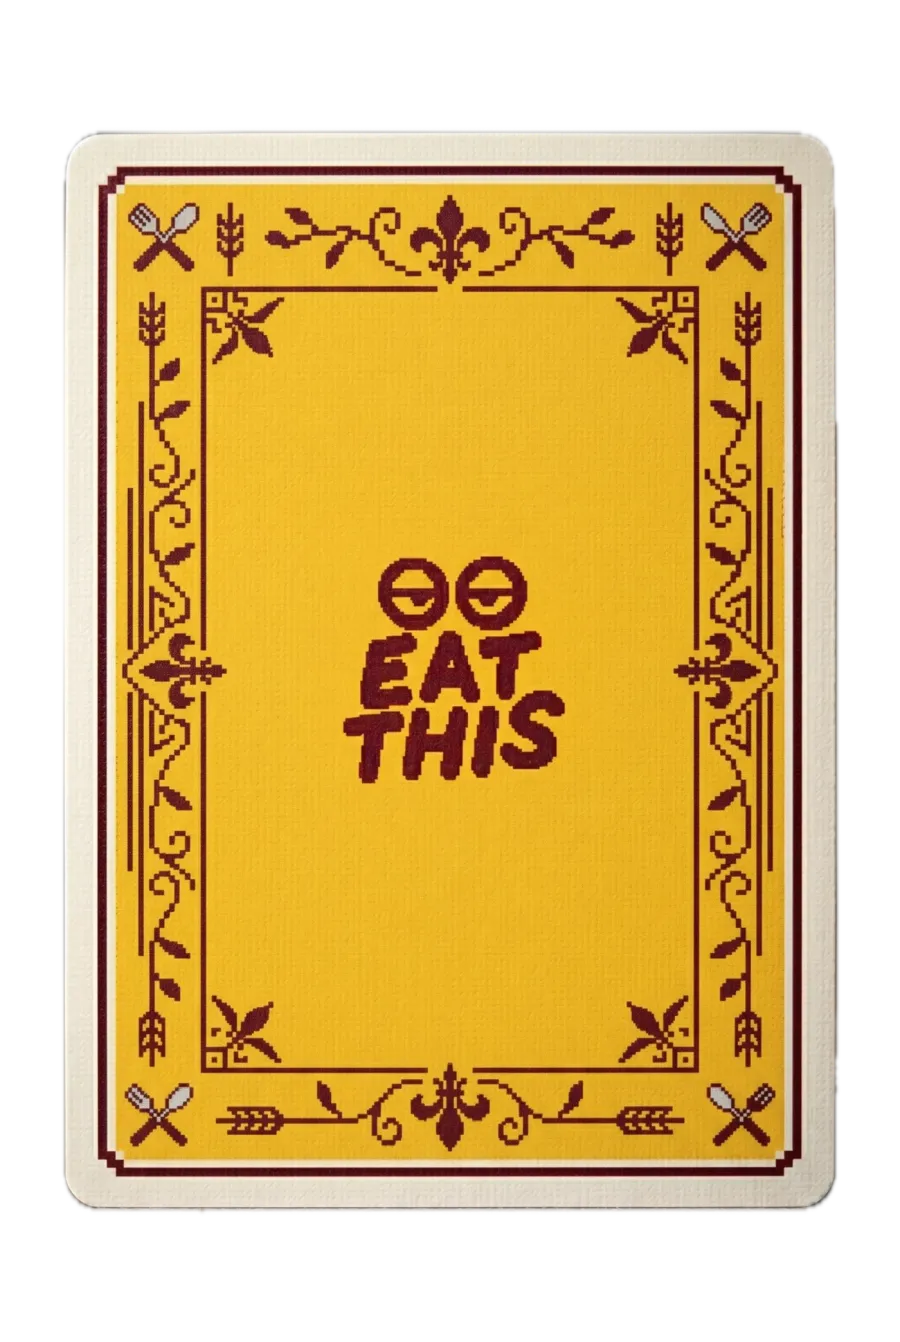
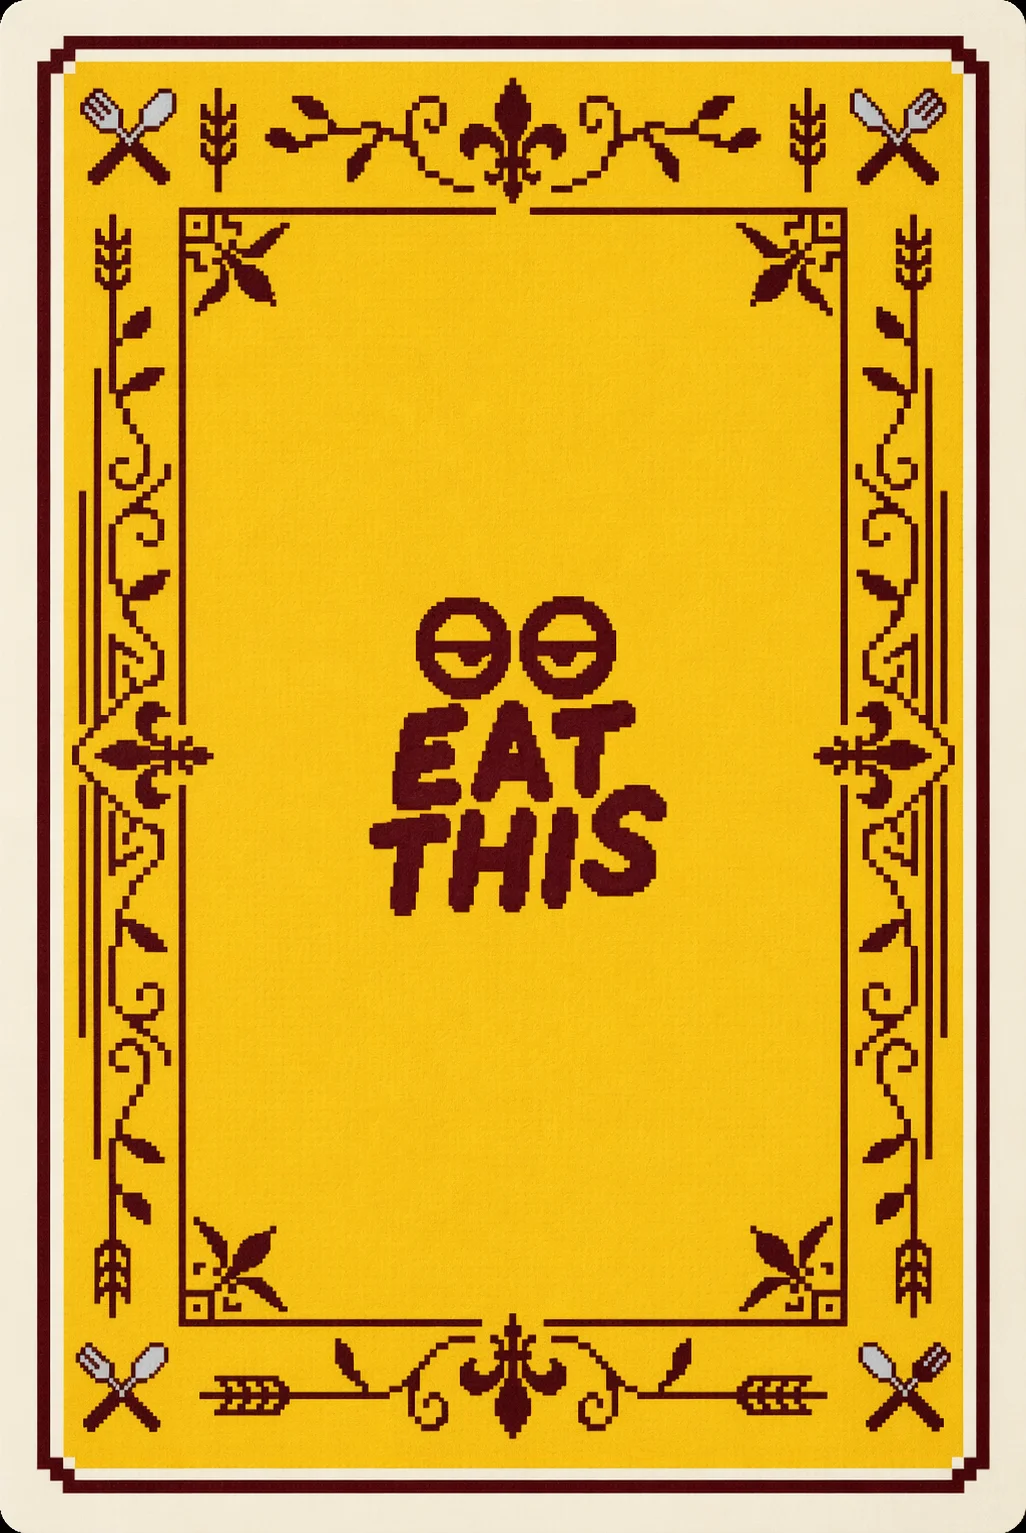
fix(landing): update back card image, move ticker, fix Must Eat hyphen sweep
- Replace card-back.webp with correct pixel-art EAT THIS design (153KB WebP from back_card.png)
- Move Ticker to directly below HeroIntro on mobile; hide on ≥1024px
- Remove dark #2a2a2a background from .memBack — cards now freigestellt
- Fix MapSection using stale card_back.png → card-back.webp
- Strip Must-Eat / Must-Eats hyphens across translations.ts, queries.ts, map.module.css, style.css

diff --git a/nextjs/lib/i18n/translations.ts b/nextjs/lib/i18n/translations.ts
@@ -19,7 +19,7 @@ const en = {
   },
   newsletter: {
     eyebrow: "Stay in the loop",
-    title: "New Must-Eats, every week.",
+    title: "New Must Eats, every week.",
     sub: "Get the latest Berlin spots delivered to your inbox \u2014 plus a free bonus card pack.",
     placeholder: "your@email.com",
     cta: "Subscribe",
@@ -29,21 +29,21 @@ const en = {
   start: {
     section1Label: "Eat This",
     section1Title: "Probably the BEST food guide you know.",
-    section1Body: "The most curated selection of Must-Eats in Berlin. Discover the city via our interactive map and start building your deck.",
+    section1Body: "The most curated selection of Must Eats in Berlin. Discover the city via our interactive map and start building your deck.",
     section2Label: "The Concept",
     section2Title: "Just order this.",
-    section2Body1: "We hunt down the outstanding dishes. Every Must-Eat Card in your collection represents a recommendation we stand behind\u2014from single iconic plates to entire \u201cMenu Approved\u201d spots.",
-    section2Body2: "Register to unlock your first Booster Pack including 10 free Must-Eat Cards. Collect them all, explore the map, and master the Berlin food scene.",
+    section2Body1: "We hunt down the outstanding dishes. Every Must Eat Card in your collection represents a recommendation we stand behind\u2014from single iconic plates to entire \u201cMenu Approved\u201d spots.",
+    section2Body2: "Register to unlock your first Booster Pack including 10 free Must Eat Cards. Collect them all, explore the map, and master the Berlin food scene.",
     section2Body3: "",
     section3Label: "Account",
     section3Title: "Be the first to know.",
-    section3Body: "Create an account and get 10 free Must-Eat Cards to start your collection.",
+    section3Body: "Create an account and get 10 free Must Eat Cards to start your collection.",
     section3Cta: "Create account",
     section4Label: "Our Standards",
     philo1Title: "Pure Curation.",
     philo1Text: "One rule: only the best food. We visit, we taste, we select.",
     philo2Title: "The Deck.",
-    philo2Text: "Hundreds of Must-Eats to discover. Build your personal archive of the city\u2019s finest restaurants and caf\u00e9s.",
+    philo2Text: "Hundreds of Must Eats to discover. Build your personal archive of the city\u2019s finest restaurants and caf\u00e9s.",
     philo3Title: "Explore the Map.",
     philo3Text: "Discover the city dish by dish.",
     section5Label: "How we choose",
@@ -52,14 +52,14 @@ const en = {
     section5Body2: "",
     section6Label: "What\u2019s next",
     section6Title: "Berlin is just the first deck.",
-    section6Body1: "We are expanding city by city. More decks, more Must-Eats, and exclusive Merch coming soon.",
+    section6Body1: "We are expanding city by city. More decks, more Must Eats, and exclusive Merch coming soon.",
     section6Cities: "Istanbul, Amsterdam, Paris \u2014 we\u2019re on it.",
     section6Body2: "Same approach, different cities.",
   },
   about: {
     title: "Just order this.",
     // Safe: hardcoded HTML from this constant — not user input
-    body: "<h3>The Concept</h3><p>Eat This is a curated food guide for Berlin. We don\u2019t just list places; we find the outstanding dishes you actually need to try.</p><h3>Must-Eat Cards</h3><p>Every recommendation is a card. Collect them, build your deck, and track your culinary journey through the city. New users receive a 10-card Booster Pack upon registration.</p><h3>Pure Curation</h3><p>We visit every spot, talk to the chefs, and only select what truly stands out. No paid content, no noise\u2014just the best food.</p><h3>What\u2019s Next</h3><p>Berlin is our starting point. Istanbul, Amsterdam, and Paris are coming soon. Same rules, different cities.</p>",
+    body: "<h3>The Concept</h3><p>Eat This is a curated food guide for Berlin. We don\u2019t just list places; we find the outstanding dishes you actually need to try.</p><h3>Must Eat Cards</h3><p>Every recommendation is a card. Collect them, build your deck, and track your culinary journey through the city. New users receive a 10-card Booster Pack upon registration.</p><h3>Pure Curation</h3><p>We visit every spot, talk to the chefs, and only select what truly stands out. No paid content, no noise\u2014just the best food.</p><h3>What\u2019s Next</h3><p>Berlin is our starting point. Istanbul, Amsterdam, and Paris are coming soon. Same rules, different cities.</p>",
   },
   musts: {
     sectionLabel: "Berlin",
@@ -100,14 +100,14 @@ const en = {
     reserve: "Reserve",
     allBezirke: "All districts",
     restaurantsTab: "Restaurants",
-    mustEatsTab: "Must-Eats",
+    mustEatsTab: "Must Eats",
     restaurantOne: "restaurant",
     restaurantMany: "restaurants",
     nearYou: "near you",
     nothingInArea: "No restaurants found near you.",
     openingHours: "Opening Hours",
     insiderTip: "Insider Tip",
-    mustEatsCount: "Must-Eats",
+    mustEatsCount: "Must Eats",
     googleMaps: "Google Maps",
     website: "Website",
     share: "Share",
@@ -117,14 +117,14 @@ const en = {
     loadingTitle: "Shuffling your cards",
     loadingSub: "Berlin loading \u00b7 Press Start",
     tooFarToReveal: "Too far to reveal",
-    revealHere: "You\u2019re here! Tap to reveal this Must-Eat.",
+    revealHere: "You\u2019re here! Tap to reveal this Must Eat.",
     awayToUnlock: "away \u2014 come within 200 m to unlock.",
-    enableLocation: "Enable location to unlock Must-Eats on-site.",
-    mustEatsUnlocked: "Must-Eats unlocked",
-    noMustEatsMatch: "No Must-Eats match your filters.",
-    hiddenMustEat: "Hidden Must-Eat",
+    enableLocation: "Enable location to unlock Must Eats on-site.",
+    mustEatsUnlocked: "Must Eats unlocked",
+    noMustEatsMatch: "No Must Eats match your filters.",
+    hiddenMustEat: "Hidden Must Eat",
     viewRestaurant: "View restaurant",
-    mustEatLabel: "Must-Eat",
+    mustEatLabel: "Must Eat",
     unitsMin: "min",
     unitsH: "h",
   },
@@ -170,7 +170,7 @@ const en = {
     about: {
       title: "Just order this.",
       // Safe: hardcoded HTML from this constant — not user input
-      body: "<h3>Corrections Policy</h3><p>If we publish something wrong, we want to know. Email <a href=\"mailto:hello@eatthisdot.com\">hello@eatthisdot.com</a> with the article and the correction. We aim to fix factual errors within 24 hours and add a visible note at the bottom of the article explaining what was changed and when. Small typos we silently fix; anything that changes the meaning of a piece gets a visible correction.</p><h3>Fact Checking and Sources</h3><p>Everything we write about a restaurant is based on at least one personal visit. Opening hours, addresses and prices are verified with the restaurant before publication and periodically re-checked. When we quote someone, we quote them on the record.</p><h3>Funding and Transparency</h3><p>EAT THIS is currently self-funded and free for readers. If and when we introduce paid partnerships, subscriptions, or sponsored content, they will always be labelled clearly and kept separate from our editorial recommendations. We are not owned by, invested in, or paid by any restaurant, restaurant group or food brand. Full company and contact details are in our Impressum.</p><h3>Editorial Contact</h3><p>Editorial questions, tips, corrections: <a href=\"mailto:hello@eatthisdot.com\">hello@eatthisdot.com</a></p><h3>The Concept</h3><p>Eat This is a curated food guide for Berlin. We don\u2019t just list places; we find the outstanding dishes you actually need to try.</p><h3>Must-Eat Cards</h3><p>Every recommendation is a card. Collect them, build your deck, and track your culinary journey through the city. New users receive a 10-card Booster Pack upon registration.</p><h3>Pure Curation</h3><p>We visit every spot, talk to the chefs, and only select what truly stands out. No paid content, no noise\u2014just the best food.</p><h3>What\u2019s Next</h3><p>Berlin is our starting point. Istanbul, Amsterdam, and Paris are coming soon. Same rules, different cities.</p>",
+      body: "<h3>Corrections Policy</h3><p>If we publish something wrong, we want to know. Email <a href=\"mailto:hello@eatthisdot.com\">hello@eatthisdot.com</a> with the article and the correction. We aim to fix factual errors within 24 hours and add a visible note at the bottom of the article explaining what was changed and when. Small typos we silently fix; anything that changes the meaning of a piece gets a visible correction.</p><h3>Fact Checking and Sources</h3><p>Everything we write about a restaurant is based on at least one personal visit. Opening hours, addresses and prices are verified with the restaurant before publication and periodically re-checked. When we quote someone, we quote them on the record.</p><h3>Funding and Transparency</h3><p>EAT THIS is currently self-funded and free for readers. If and when we introduce paid partnerships, subscriptions, or sponsored content, they will always be labelled clearly and kept separate from our editorial recommendations. We are not owned by, invested in, or paid by any restaurant, restaurant group or food brand. Full company and contact details are in our Impressum.</p><h3>Editorial Contact</h3><p>Editorial questions, tips, corrections: <a href=\"mailto:hello@eatthisdot.com\">hello@eatthisdot.com</a></p><h3>The Concept</h3><p>Eat This is a curated food guide for Berlin. We don\u2019t just list places; we find the outstanding dishes you actually need to try.</p><h3>Must Eat Cards</h3><p>Every recommendation is a card. Collect them, build your deck, and track your culinary journey through the city. New users receive a 10-card Booster Pack upon registration.</p><h3>Pure Curation</h3><p>We visit every spot, talk to the chefs, and only select what truly stands out. No paid content, no noise\u2014just the best food.</p><h3>What\u2019s Next</h3><p>Berlin is our starting point. Istanbul, Amsterdam, and Paris are coming soon. Same rules, different cities.</p>",
     },
     contact: {
       title: "Get in touch",
@@ -204,7 +204,7 @@ const en = {
     },
     login: {
       titleRegister: "Create account",
-      subtitleRegister: "Get your first Starter Pack \u2014 10 Must-Eat Cards, free.",
+      subtitleRegister: "Get your first Starter Pack \u2014 10 Must Eat Cards, free.",
       titleLogin: "Welcome back",
       subtitleLogin: "Sign in to your account.",
       namePlaceholder: "Name",
@@ -331,7 +331,7 @@ const deOverrides: DeepPartial<TranslationsShape> = {
   },
   newsletter: {
     eyebrow: "Immer up to date",
-    title: "Neue Must-Eats, jede Woche.",
+    title: "Neue Must Eats, jede Woche.",
     sub: "Die besten neuen Spots aus Berlin \u2014 direkt in dein Postfach.",
     placeholder: "deine@email.com",
     cta: "Anmelden",
@@ -340,20 +340,20 @@ const deOverrides: DeepPartial<TranslationsShape> = {
   },
   start: {
     section1Title: "Wahrscheinlich der beste Food-Guide, den du kennst.",
-    section1Body: "Die kuratierteste Auswahl an Must-Eats in Berlin. Entdecke die Stadt auf unserer interaktiven Karte und starte dein Deck.",
+    section1Body: "Die kuratierteste Auswahl an Must Eats in Berlin. Entdecke die Stadt auf unserer interaktiven Karte und starte dein Deck.",
     section2Label: "Das Konzept",
     section2Title: "Bestell genau das.",
-    section2Body1: "Wir sp\u00fcren herausragende Gerichte auf. Jede Must-Eat-Karte in deiner Sammlung steht f\u00fcr eine Empfehlung, hinter der wir stehen \u2013 von einzelnen ikonischen Tellern bis hin zu ganzen \u201eMenu Approved\u201c-Spots.",
-    section2Body2: "Registriere dich, um dein erstes Booster Pack mit 10 kostenlosen Must-Eat-Karten freizuschalten. Sammle sie alle, erkunde die Karte und meistere die Berliner Food-Szene.",
+    section2Body1: "Wir sp\u00fcren herausragende Gerichte auf. Jede Must Eat Karte in deiner Sammlung steht f\u00fcr eine Empfehlung, hinter der wir stehen \u2013 von einzelnen ikonischen Tellern bis hin zu ganzen \u201eMenu Approved\u201c-Spots.",
+    section2Body2: "Registriere dich, um dein erstes Booster Pack mit 10 kostenlosen Must Eat Karten freizuschalten. Sammle sie alle, erkunde die Karte und meistere die Berliner Food-Szene.",
     section3Label: "Account",
     section3Title: "Sei der Erste.",
-    section3Body: "Erstelle einen Account und erhalte 10 kostenlose Must-Eat-Karten f\u00fcr deine Sammlung.",
+    section3Body: "Erstelle einen Account und erhalte 10 kostenlose Must Eat Karten f\u00fcr deine Sammlung.",
     section3Cta: "Konto erstellen",
     section4Label: "Unsere Standards",
     philo1Title: "Reine Kuration.",
     philo1Text: "Eine Regel: nur das beste Essen. Wir besuchen, wir kosten, wir w\u00e4hlen aus.",
     philo2Title: "Das Deck.",
-    philo2Text: "Hunderte von Must-Eats zu entdecken. Baue dein pers\u00f6nliches Archiv der feinsten Restaurants und Caf\u00e9s der Stadt.",
+    philo2Text: "Hunderte von Must Eats zu entdecken. Baue dein pers\u00f6nliches Archiv der feinsten Restaurants und Caf\u00e9s der Stadt.",
     philo3Title: "Erkunde die Karte.",
     philo3Text: "Entdecke die Stadt Gericht f\u00fcr Gericht.",
     section5Label: "Wie wir ausw\u00e4hlen",
@@ -361,7 +361,7 @@ const deOverrides: DeepPartial<TranslationsShape> = {
     section5Body1: "Wir besuchen jeden Ort selbst und sprechen mit den K\u00f6chen, um die Gerichte zu finden, die wirklich herausragen.",
     section6Label: "Was kommt",
     section6Title: "Berlin ist erst der Anfang.",
-    section6Body1: "Wir expandieren Stadt f\u00fcr Stadt. Mehr Decks, mehr Must-Eats und exklusives Merch kommen bald.",
+    section6Body1: "Wir expandieren Stadt f\u00fcr Stadt. Mehr Decks, mehr Must Eats und exklusives Merch kommen bald.",
     section6Cities: "Istanbul, Amsterdam, Paris \u2013 wir sind dran.",
   },
   musts: {
@@ -395,14 +395,14 @@ const deOverrides: DeepPartial<TranslationsShape> = {
     reserve: "Reservieren",
     allBezirke: "Alle Bezirke",
     restaurantsTab: "Restaurants",
-    mustEatsTab: "Must-Eats",
+    mustEatsTab: "Must Eats",
     restaurantOne: "Restaurant",
     restaurantMany: "Restaurants",
     nearYou: "in deiner N\u00e4he",
     nothingInArea: "Keine Restaurants in deiner N\u00e4he gefunden.",
     openingHours: "\u00d6ffnungszeiten",
     insiderTip: "Insider-Tipp",
-    mustEatsCount: "Must-Eats",
+    mustEatsCount: "Must Eats",
     googleMaps: "Google Maps",
     website: "Webseite",
     share: "Teilen",
@@ -414,12 +414,12 @@ const deOverrides: DeepPartial<TranslationsShape> = {
     tooFarToReveal: "Zu weit weg",
     revealHere: "Du bist da! Tippe, um aufzudecken.",
     awayToUnlock: "entfernt \u2014 komm auf 200 m heran zum Aufdecken.",
-    enableLocation: "Aktiviere den Standort, um Must-Eats vor Ort freizuschalten.",
-    mustEatsUnlocked: "Must-Eats aufgedeckt",
-    noMustEatsMatch: "Keine Must-Eats passen zu deinen Filtern.",
-    hiddenMustEat: "Versteckter Must-Eat",
+    enableLocation: "Aktiviere den Standort, um Must Eats vor Ort freizuschalten.",
+    mustEatsUnlocked: "Must Eats aufgedeckt",
+    noMustEatsMatch: "Keine Must Eats passen zu deinen Filtern.",
+    hiddenMustEat: "Versteckter Must Eat",
     viewRestaurant: "Restaurant ansehen",
-    mustEatLabel: "Must-Eat",
+    mustEatLabel: "Must Eat",
     unitsMin: "Min",
     unitsH: "Std",
   },
@@ -461,7 +461,7 @@ const deOverrides: DeepPartial<TranslationsShape> = {
     },
     login: {
       titleRegister: "Konto erstellen",
-      subtitleRegister: "Hol dir dein erstes Starter Pack \u2013 10 Must-Eat Cards, kostenlos.",
+      subtitleRegister: "Hol dir dein erstes Starter Pack \u2013 10 Must Eat Cards, kostenlos.",
       titleLogin: "Willkommen zur\u00fcck",
       subtitleLogin: "Melde dich bei deinem Konto an.",
       namePlaceholder: "Name",

diff --git a/nextjs/app/components/map/map.module.css b/nextjs/app/components/map/map.module.css
@@ -1001,7 +1001,7 @@ html[data-theme="dark"] .fab {
 }
 @media (min-width: 1024px) {
   /* Remove the mobile-based cap so the scroll area fills the full panel height.
-     Applies to both restaurant list (.listScroll) and Must-Eat list
+     Applies to both restaurant list (.listScroll) and Must Eat list
      (.listScrollNoCats). */
   .listScroll,
   .listScrollNoCats {
@@ -1433,7 +1433,7 @@ html[data-theme="dark"] .listBanner {
   .rowTagsText { font-size: 10.5px; }
 }
 
-/* Must-Eat inline text badge */
+/* Must Eat inline text badge */
 .rowMustText {
   flex-shrink: 0;
   display: inline-block;
@@ -1724,7 +1724,7 @@ html[data-theme="dark"] .rowStatusClosed { color: #ff6a6a; }
   filter: drop-shadow(0 2px 4px rgba(0, 0, 0, 0.35));
 }
 
-/* Must-Eat polaroid marker */
+/* Must Eat polaroid marker */
 .card {
   width: 52px;
   height: 72px;
@@ -2072,8 +2072,8 @@ html[data-theme="dark"] .btn:hover {
   filter: drop-shadow(0 3px 6px rgba(255, 59, 0, 0.55));
 }
 .pinLogoHasMust::after {
-  /* Mini Must-Eat card-back overlayed on the pin — signals the restaurant
-     has at least one Must-Eat attached. */
+  /* Mini Must Eat card-back overlayed on the pin — signals the restaurant
+     has at least one Must Eat attached. */
   content: '';
   position: absolute;
   top: -4px;
@@ -2093,7 +2093,7 @@ html[data-theme="dark"] .btn:hover {
   border-radius: 50%;
 }
 
-/* ========== Card-back marker for Must-Eats ========== */
+/* ========== Card-back marker for Must Eats ========== */
 .cardMarker {
   width: 42px;
   height: 62px;
@@ -2118,7 +2118,7 @@ html[data-theme="dark"] .btn:hover {
   filter: drop-shadow(0 2px 6px rgba(255, 59, 0, 0.55));
 }
 
-/* Proximity vibration on the Must-Eat map marker — strong when user is
+/* Proximity vibration on the Must Eat map marker — strong when user is
    right on top of the restaurant, subtle when ~500 m away. */
 .cardMarkerVibrating {
   --vibrate-intensity: 0;
@@ -2795,7 +2795,7 @@ html[data-theme="dark"] .selectActive {
   }
 }
 
-/* Must-Eat detail: tighter width — the card hero is ~220px and the rest is text,
+/* Must Eat detail: tighter width — the card hero is ~220px and the rest is text,
    so a narrower panel keeps attention on the card without big side whitespace.
    Placed AFTER the desktop `.detail` rule so its max-width override wins. */
 /* Use .detail.detailNarrow double-class selector to beat the desktop media rule
@@ -3084,7 +3084,7 @@ html[data-theme="dark"] .detailFooter .btn:hover {
   border-color: rgba(255, 255, 255, 0.28);
 }
 
-/* ── Must-Eat detail (in-sheet) ───────────────────────────────────────
+/* ── Must Eat detail (in-sheet) ───────────────────────────────────────
    Big & Bold layout: cream gradient hero with the freigestellte card-back
    (white asset margin cropped via background-size: 118%) vibrating
    continuously. Combined Card CTA at the bottom links to the restaurant. */
@@ -3229,7 +3229,7 @@ html[data-theme="dark"] .mustEatHero {
   color: var(--text-secondary);
 }
 
-/* Explainer + Booster Pack offer (locked Must-Eats only) */
+/* Explainer + Booster Pack offer (locked Must Eats only) */
 .mustEatExplainer {
   margin-top: 10px;
   padding: 9px 12px;
@@ -3640,7 +3640,7 @@ html[data-theme="dark"] .hoursStatusClosed { color: #ff6a6a; }
   overflow: hidden;
 }
 
-/* Must-Eat mini cards inside restaurant detail */
+/* Must Eat mini cards inside restaurant detail */
 .mustGrid {
   display: grid;
   grid-template-columns: repeat(auto-fill, minmax(72px, 1fr));
@@ -3699,7 +3699,7 @@ html[data-theme="dark"] .hoursStatusClosed { color: #ff6a6a; }
   text-overflow: ellipsis;
 }
 
-/* ========== Must-Eat detail: full flipped card ========== */
+/* ========== Must Eat detail: full flipped card ========== */
 .mustHero {
   width: 100%;
   max-height: 58dvh;

diff --git a/nextjs/app/components/landing/landing.module.css b/nextjs/app/components/landing/landing.module.css
@@ -96,6 +96,9 @@
   .tickerSep { font-size: 22px; padding-left: 18px; padding-right: 18px; }
   .tickerTrack { animation-duration: 65s; }
 }
+@media (min-width: 1024px) {
+  .ticker { display: none; }
+}
 
 /* ── ABOUT ─────────────────────────────────────────────────── */
 .about {
@@ -586,7 +589,7 @@
   -webkit-backface-visibility: hidden;
   overflow: hidden;
 }
-.memBack { background: #2a2a2a url('/pics/card_back.png') center/cover; }
+.memBack { background: transparent url('/pics/card-back.webp') center/cover; }
 .memFace { transform: rotateY(180deg); }
 .memFace img { width: 100%; height: 100%; object-fit: cover; display: block; }
 
@@ -1054,7 +1057,7 @@
   border-bottom-color: #2a2a2a;
 }
 :global([data-theme="dark"]) .gameHead h2 { color: #fff; }
-:global([data-theme="dark"]) .memBack { background-color: #2a2a2a; }
+:global([data-theme="dark"]) .memBack { background-color: transparent; }
 
 /* Map teaser */
 :global([data-theme="dark"]) .mapTeaser {

diff --git a/nextjs/lib/queries.ts b/nextjs/lib/queries.ts
@@ -174,7 +174,7 @@ export const allNewsArticlesQuery = `
   }
 `
 
-// Must-Eat cards for a specific restaurant
+// Must Eat cards for a specific restaurant
 export const mustEatsByRestaurantQuery = `
   *[_type == "mustEat" && restaurantRef._ref == $restaurantId] | order(order asc) {
     _id,
@@ -184,7 +184,7 @@ export const mustEatsByRestaurantQuery = `
   }
 `
 
-// All Must-Eat cards — for album/overview
+// All Must Eat cards — for album/overview
 export const allMustEatsQuery = `
   *[_type == "mustEat"] | order(order asc) {
     _id,
@@ -195,7 +195,7 @@ export const allMustEatsQuery = `
   }
 `
 
-// Must-Eat album grid — matches legacy window.CMS.fetchMustEats projection
+// Must Eat album grid — matches legacy window.CMS.fetchMustEats projection
 export const allMustEatsAlbumQuery = `
   *[_type == "mustEat"] | order(order asc) {
     _id,

diff --git a/nextjs/app/components/MapSection.tsx b/nextjs/app/components/MapSection.tsx
@@ -598,7 +598,7 @@ export default function MapSection({ isActive = false }: Props) {
                             onClick={() => handleMustEatClick(m)}
                           >
                             <div className={styles.mustDeckThumbWrap}>
-                              <img src="/pics/card_back.png" alt="" className={styles.mustDeckThumbCard} loading="lazy" />
+                              <img src="/pics/card-back.webp" alt="" className={styles.mustDeckThumbCard} loading="lazy" />
                             </div>
                             <div className={styles.rowMain}>
                               <div className={styles.rowName}>{m.restaurant.name}</div>

diff --git a/nextjs/css/style.css b/nextjs/css/style.css
@@ -1925,7 +1925,7 @@ body {
     display: none;
   }
 
-  /* Must-eats grid — mobile */
+  /* Must Eats grid — mobile */
   .app-page[data-page="musts"] .must-eats-grid {
     grid-template-columns: repeat(2, 1fr);
     gap: 8px;
@@ -3183,7 +3183,7 @@ html:not([data-theme="dark"]) .site-footer .theme-toggle-label {
     display: none;
   }
 
-  /* Must-eats grid — desktop app */
+  /* Must Eats grid — desktop app */
   .app-page[data-page="musts"] .must-eats-section {
     padding: 0;
   }

diff --git a/nextjs/app/[locale]/(spa)/SPAShell.tsx b/nextjs/app/[locale]/(spa)/SPAShell.tsx
@@ -42,9 +42,9 @@ export default async function SPAShell({ activePage = 'start' }: { activePage?: 
           <HeroSection />
           <div className="start-scroll-content" style={{ paddingTop: 0 }}>
             <HeroIntro />
+            <Ticker />
             <AboutFanRow />
             <USPs />
-            <Ticker />
             <MemoryGame />
             <MapTeaser />
             <Selection />
